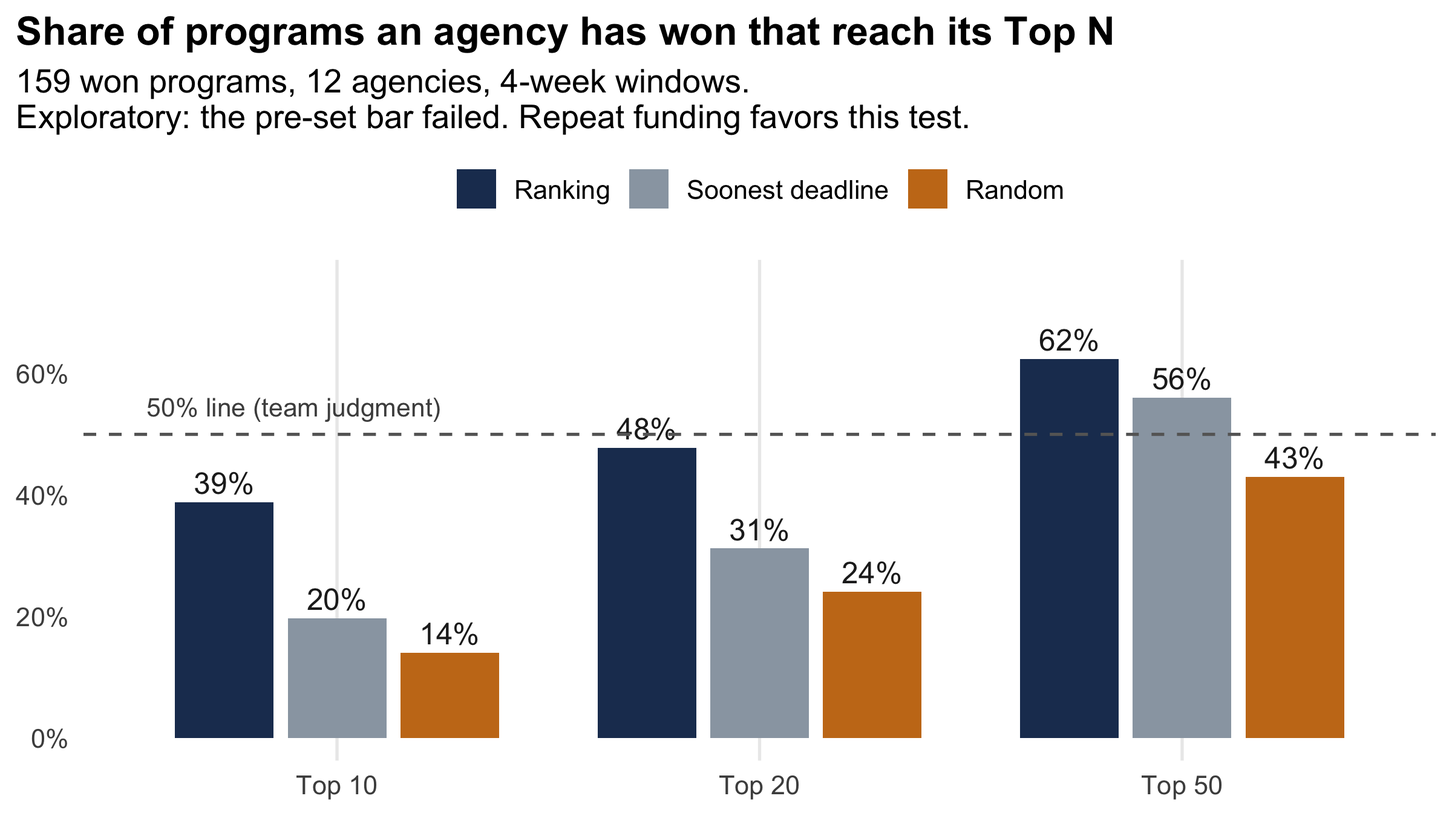
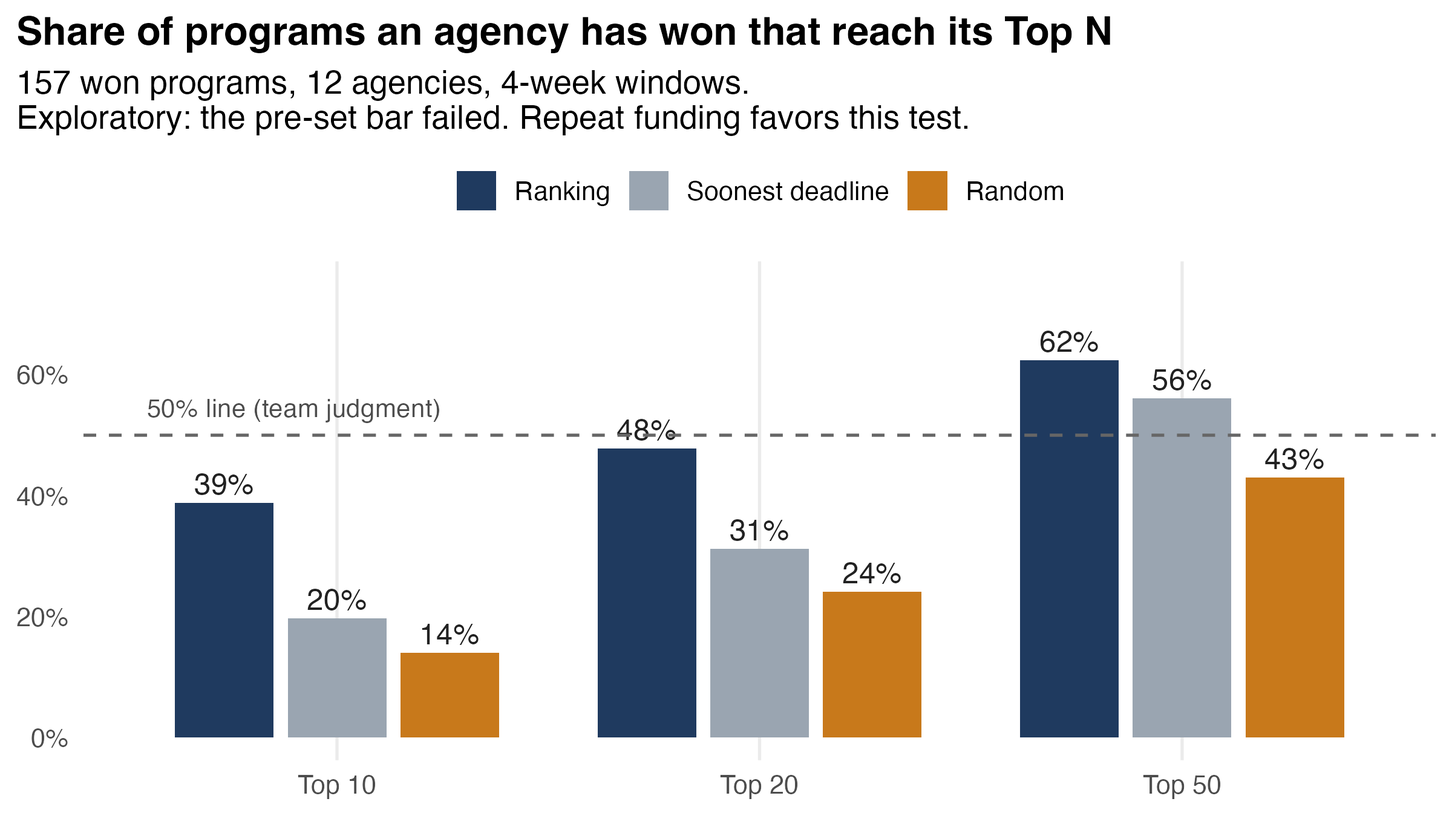
Untrack API key file, fix backtest figure count, add Level 4 rubric docs

diff --git a/Finalists/saturday/level4_solve_plan.md b/Finalists/saturday/level4_solve_plan.md
@@ -1,0 +1,40 @@
+# Level 4 Solve: gap list and run plan (Sun Nov 8, 2026)
+
+Source: the judging rubric photo. Level 3 = live demo end to end on Azure (ingest, score, rank, surface in a usable interface). Level 4 = Level 3 plus stretch goals, graceful handling of messy data, and a README a state developer could pick up.
+
+Status below is read from `src/docs/azure_setup.md`, `src/docs/daily_job.md`, `app/job.R`, `app/Dockerfile.job` and the README. Nothing here was checked against live Azure from this session [uncertain until someone with `az login` re-reads it].
+
+## Level 3 check (live demo end to end)
+| Step | State | Evidence |
+|---|---|---|
+| Surface in a usable interface | Done | `ffm-app` v36 live, `/`, `/payload.json`, `/feedback` |
+| Score and rank | Done, but baked into the image | scored on a laptop, payload copied into the image |
+| Ingest on Azure | NOT done | fetch (`02a` to `03_merge_opportunities.R`) runs by hand |
+| Daily job | Runs as dry run only | `ffm-daily-refresh` execution ffm-daily-refresh-7uhvu26 succeeded in 32 s but logged "no src/R under /srv/finalists; scoring skipped, shipping the baked payload" |
+
+Honest line for the pitch if nothing below is done: the daily job proves the schedule and the payload check, it does not yet refresh data. Say that, do not claim a cloud refresh.
+
+## Gaps, ordered by value for Level 4
+1. **Job image scores for real.** `Dockerfile.job` is written but never built. Running job is on the app image (v36), which has no `src/R`. Build `ffm-job` from the repo root, point the job at it, run once, confirm the log says "scoring from cache" and `payload.json` md5 matches the repo copy.
+2. **Job can write to Blob.** Marco's login cannot assign roles. Either an Owner grants `Storage Blob Data Contributor` on `ffmdatateam15` to the job identity, or a write SAS goes in as a Container App Job secret (`BLOB_WRITE_SAS`). Then set `JOB_DRY_RUN=0`. Until then the app serves the baked payload, which is fine for the demo.
+3. **Ingest is automated or honestly labeled.** Not feasible to wire a fetch with new keys in the time left. Fallback that is true today: the label "data as of 2026-11-07 11:00" in the payload, plus the README statement that fetch is a manual, approved step. If time allows later: store the keys as Container App Job secrets (never in an image or file) and run `02a` to `03` before scoring.
+4. **Stretch goals (rubric: "stretch goals").** Check which of the three bonus quests are live in the tool before the pitch: coverage/reach metric (fact sheet row 31 says done, exploratory), deadline alerts, feedback loop (`/feedback` live, pilot measure live). Say which are live and which are not. Do not name a bonus that is not in the deployed tool.
+5. **Messy data.** Already handled: 488 open items with no close date and 887 with no award ceiling show "not listed", not a made-up value (README line 156). Add one sentence and one screenshot to the pitch.
+6. **State-developer README.** Root README is a judge landing page with a requirement map. Missing for a developer: one block "to run this against a new state agency: edit these three tables in `data/manual/`" and the Azure resource list with names. Add it to `Finalists/README.md` after the key and history decisions are made.
+
+## What is needed to run all of it (order, owner)
+| # | Step | Owner | Needs |
+|---|---|---|---|
+| 1 | `az login` (Duo), confirm subscription | Marco | his phone |
+| 2 | Read current state: `az containerapp show`, `az containerapp job show`, month-to-date cost in the portal | Marco or Kent | read only |
+| 3 | Grant `AcrPull` on `ffmacrteam15` to the job identity, and `Storage Blob Data Contributor` on `ffmdatateam15` | a subscription Owner (Kent or organizers) | role assignment |
+| 4 | `az acr build -r ffmacrteam15 -t ffm-job:v1 -f Finalists/app/Dockerfile.job .` from repo root | Marco | per-command approval |
+| 5 | `az containerapp job update` to the new image, then `az containerapp job start` once; read the log | Marco | per-command approval |
+| 6 | Only if step 5 shows real scoring and md5 matches: set `JOB_DRY_RUN=0`, start once, confirm Blob timestamp changes and the live page still loads | Marco | per-command approval |
+| 7 | Warm the app (min replicas 1 already set; cold start is 38 s at 0) and set back to 0 after the talk | Marco | after 12:30 |
+| 8 | Log every Azure command and result in `src/docs/azure_setup.md` and `AI_USAGE_LOG.md` | whoever ran it | |
+
+Rule from the project: no `az` create, role assignment, build or deploy runs without the user's per-command approval. Steps 3 to 6 are outside what this session ran.
+
+## Decision for Kent
+Steps 4 to 6 are the only way to move Solve from "dry run" to "real scheduled refresh". Rough cost: a few minutes of build, well under $1. Risk: a bad image replaces the job only, never the live app. If the Owner role grant (step 3) cannot happen before 9:00, skip 2 and 6 and present the honest line above.

diff --git a/Finalists/docs/REQUIREMENTS.md b/Finalists/docs/REQUIREMENTS.md
@@ -1,0 +1,38 @@
+# Requirements: ranked, traced, with what we left out
+
+Rubric target: Frame, level 4 (reframed as we learned; requirements prioritized and traceable to sponsor input; scope held). Sources: `planning/07_discovery_findings.md` (our notes of the Fri Nov 6 discovery session, not verbatim quotes), `saturday/02_decisions.md`, `src/docs/fact_sheet.md`. Evidence status is read from those documents; re-check against the live tool before claiming it on a slide.
+
+## How the problem changed
+| Before the discovery session | What the sponsors said | What we built instead |
+|---|---|---|
+| Rank grants by how well they match an agency's plan | Time and "worth the effort" decide whether anyone applies; most agencies have no one whose job is scanning | Eligibility became its own step (hidden with a quoted reason, or "check eligibility"); rows show days left and who must sign; ranking is by plan fit with deadline and signature tier visible |
+| Teach the tool by having each user rank 10 sample grants | More questions to users is bad | Onboarding ranking dropped or shrunk [check what shipped in the live tool] |
+| Search Grants.gov | Grants.gov alone "is not comprehensive" | Added USAspending, Federal Register, SAM Assistance Listings and state strategic plans; SAM.gov postings are not loaded (README, Known limits) |
+| Prove it works with a model's labels | The first held-out check failed (kappa 0.44 in-sample) | Labels kept out of the ranking; the notice reader is advisory only (decisions 3 and 9) |
+
+## Requirements, in priority order
+Priority is our reading of what the sponsors stressed most: must = pilot fails without it; should = clearly asked for; could = stretch.
+
+| # | Priority | Requirement (sponsor input, paraphrased from notes) | Where it is met | Evidence |
+|---|---|---|---|---|
+| 1 | Must | Save time, never add work | One required choice (agency), then a ranked list; no setup questions | Live tool, README "What it does" |
+| 2 | Must | Fast and simple; waiting minutes fails | Static page served by `ffm-app`, payload prebuilt; warm 0.09 to 0.15 s, cold start 38 s at zero replicas, min replicas set to 1 | `src/docs/azure_setup.md` |
+| 3 | Must | Sort eligibility, not the person | Hard filter with exact quote, or "check eligibility" | Fact sheet rows 7 and 8 (16,288 pairs marked check eligibility; others hidden with a reason) |
+| 4 | Must | Rank by payoff versus effort, not fit alone | Award ceiling and signature tier (writer, supervisor, leadership) shown per row; 26 Top 10 rows need leadership | Fact sheet rows 24 and 25; 887 open items have no award ceiling and say "not listed" (row 6) |
+| 5 | Must | Deadline and time to act on every match | Days-to-deadline and status badges; 71 Top 10 rows close within 14 days across 24 agencies | Fact sheet rows 17 and 18; decision 12 |
+| 6 | Must | Use public data only; privacy | Opportunities, plans and county measures are public; the LLM only labels text with a quote and never ranks or hides | Decision 9; README constraints |
+| 7 | Should | Cross-agency by design, easy to hand over | 32 agencies in one payload; README "How to extend" for adding an agency or rule; 89 tests, 49 fact checks | Fact sheet rows 2 and 9; `docs/HANDOVER.md` |
+| 8 | Should | Know how many opportunities are missed (coverage) | Award-history backtest on 157 won programs: 61 reach the Top 10 (39%), 98 reach the Top 50 (62%) against 19.7% for soonest deadline and 14.1% for random | Fact sheet rows 26 to 29 |
+| 9 | Should | Go beyond Grants.gov | USAspending, Federal Register, SAM Assistance Listings used; SAM.gov postings and foundations not loaded | README Known limits |
+| 10 | Could | Draft the proposal | Out of scope, see below | Decision list |
+
+## Deliberately left out, and why
+- Proposal drafting: sponsors called it the top tier, but a checklist of requirements is all we can defend in a weekend, and a wrong draft is worse than none.
+- Private foundations and SAM.gov postings: no clean bulk source found in the time available (SAM Assistance Listings are used instead).
+- Accounts and server-side saving of user marks: no personal data to hold; marks stay in the browser and a de-identified copy goes to `/feedback` for the pilot measure.
+- Letting marks change the ranking: not done. We could not test that it improves the list, so it is a pilot question, not a claim.
+- Real cloud refresh: the daily job exists but runs as a dry run (see `README.md`, Daily refresh). We do not describe it as live.
+
+## Scope held under pressure
+- The 1:00 pm gate on Sat Nov 7 was the agency picker with a Top 10 and one backtest number; stretch items (match board, qualifier features) were ordered behind it in `saturday/02_decisions.md` (decisions 1, 11, 12).
+- The backtest bar (50% of won programs in the Top 10, 4-week windows, 2 of 3 agencies) was fixed before looking at results and the failed first run is reported (fact sheet row 15).

diff --git a/Finalists/docs/QA_DEFENSE.md b/Finalists/docs/QA_DEFENSE.md
@@ -1,0 +1,28 @@
+# Q&A defense: weaknesses and tradeoffs
+
+Rubric target: Evaluate, level 4 (evaluation built into the solution; tradeoffs defended with reasoning, not deflected). Every number comes from `src/docs/fact_sheet.md`. Say the weakness before the judge asks.
+
+## Evaluation inside the product
+- Each grant can be marked Pursue, Maybe or Skip. Each mark is sent, de-identified, to `/feedback` (agency, grant, rank, mark, random browser code). `app/pilot_scorecard.sh` turns the log into the pilot measure, shown as "Pilot measure" in My grants. Marks do not yet change the ranking.
+- A pilot would read that measure after the first weeks: the share of Top 10 rows that staff mark Pursue or Maybe.
+
+## Questions to expect, with the answer
+| Question | Answer | Source |
+|---|---|---|
+| Does the ranking work? | On 157 programs agencies had actually won, 61 (39%) reached the Top 10 and 98 (62%) reached the Top 50, in 4-week windows over 12 agencies. A plain soonest-deadline sort reached 19.7% and a random Top 10 reaches 14.1%. | Fact sheet rows 26 to 29 |
+| Did it pass your bar? | Not on the run we set beforehand. The bar was 50% of won programs in the Top 10, in at least 2 of 3 agencies; that run met it in 1 of 3 (DPI 2 of 3, DEQ 3 of 7, DHHS 4 of 11). After three ranking fixes made for other reasons (embassy filter, region list, tribal-title rule) it reads 2 of 3, but the denominators move with the ranking, so we say both and do not call it a pass. | Fact sheet row 15 |
+| Did a simple sort beat it? | In the first 3-agency test the soonest-deadline sort beat the model in all three. In the 12-agency test the ranking is ahead (39% against 19.7% at Top 10). We tell you both. | Fact sheet rows 16 and 29 |
+| Is the test biased in your favor? | Yes. Repeat funding favors any test built on past awards, and we tuned the text-fit setting after seeing results (current 60 of 157, best of 9 settings 64 of 157), so treat the gain as optimistic. | Fact sheet row 30 |
+| Is it useful early enough to act? | 41 of the 61 catches had at least 21 days left at the end of the window. That is the number that matters, not the raw catch rate. | Fact sheet row 32 |
+| Where does it fail? | Keyword matching misses grants worded differently from the plan and makes odd matches; region comes only from title and text, so another state's grant can slip through; the "NC has won this" track record undercounts (31 recipient matches confirmed); only DHHS and DMVA have a capability table; four plans are old. | README Known limits |
+| Did you test it with agency staff? | No. Testers were other undergraduates, consultants, government workers and other adults, none from an agency or OSBM. We say so. | `FIELD_NOTES.md` |
+| Why not let the AI decide eligibility or tier? | The model only labels text with a quoted passage and never hides or ranks. An early label check failed (kappa 0.44 in-sample), so labels stay out of the ranking. A person decides, and rules live in one file. | Decisions 3 and 9 |
+| What does missing data do? | Shows "not listed". 488 open items have no usable close date and 887 no usable award ceiling; we never fill in a value. | Fact sheet rows 5 and 6 |
+| Is the cloud refresh real? | Not yet. The daily job is deployed and runs as a dry run on a baked payload; fetching new postings is a manual step. We name that as the next step. | README Daily refresh |
+| What would you do with a pilot budget? | See `docs/PILOT_PLAN.md`. | |
+
+## Tradeoffs, stated as choices
+- Hide versus flag: items clearly ineligible are hidden with a quoted reason; uncertain ones are shown as "check eligibility" so we never silently drop a real opportunity (cost: a longer list).
+- Rules over a model for tiers and eligibility: explainable and reproducible, but they miss cases a model might catch.
+- Public data only: no privacy risk, but we cannot see which grants an agency is already pursuing.
+- Exploratory evaluation reported as such: weaker headline, higher trust.

diff --git a/Finalists/docs/PILOT_PLAN.md b/Finalists/docs/PILOT_PLAN.md
@@ -1,0 +1,41 @@
+# Pilot plan: what OSBM would be funding
+
+Rubric target: Drive Impact, level 4 (the room wants to fund it; roadmap and risks are realistic, not aspirational) and Understand, level 4 (people who fund, approve and maintain it). Owner and cost are left blank on purpose: we do not have them from a sponsor and will not invent them. Role fits below are inferred from job titles, not from anything these people said.
+
+## Who it touches
+| Role | Who it would be (by title, our proposal) | What they need from it |
+|---|---|---|
+| Uses it | A grants lead at an agency; at agencies with no grants role, whoever scans for funding | A short ranked list with deadline, who must sign, and why it matched; no setup |
+| Funds it | OSBM leadership, for example the OSBM Chief Scientist's office | A measured result from a small pilot before any larger commitment |
+| Approves it | Agency leadership for cost-share items (26 Top 10 rows need leadership); state IT and AI project staff for data and AI use | Public data only, an AI that labels text but never decides, and a record of how each result was reached |
+| Maintains it | A cross-agency team, as the sponsors described: no dedicated OSBM team exists | Plain tables to edit (`data/manual/`), one place for each rule, tests that fail loudly, a README they can follow |
+
+Titles only: the repo is public, so we do not name the state staff and mentors who spoke or attended without their consent.
+
+## The pilot
+- Length and scope: 60 days, 2 to 3 agencies, keep each agency's manual checking running in parallel so we can measure what the tool catches that they do not (the starter kit's shape).
+- Owner: left for OSBM to name. A pilot cannot start without one.
+- What it replaces: the periodic survey and the one person who scans Grants.gov when they have time. It does not replace a grant writer.
+- Cost: to be read from the Azure bill for month to date. The starter kit's $30 to $80 per month is unverified, so we do not quote it. Spend alerts exist at $50, $100, $250 and $400.
+
+## How we would know it worked
+- Pilot measure, already in the product: the share of Top 10 rows that staff mark Pursue or Maybe, from `/feedback` via `app/pilot_scorecard.sh`.
+- Coverage: how many opportunities the agency would otherwise have missed, counted against the manual list kept in parallel.
+- A "Yes" commits OSBM to: naming an owner, giving 2 to 3 agencies a grants contact for 60 days, and reading the measure at the end.
+
+## Roadmap
+| Step | State today |
+|---|---|
+| Rank and show Top 10 per agency, 32 agencies | Done, live on Azure |
+| Feedback marks logged for the pilot measure | Done, marks do not yet change the ranking |
+| Daily job that re-scores | Deployed as a dry run on a baked payload. Next: build the job image and give it permission to write |
+| Fetch new postings automatically | Not built. Fetch is a manual, approved step. Next: run it as a scheduled job with keys held as secrets |
+| Marks improve the ranking | Not built; test in the pilot |
+| More agencies need a capability table | Only DHHS and DMVA have one |
+
+## Risks, as they are
+- Keyword matching misses differently worded grants; the pilot's parallel manual list is how we find out how many.
+- Our evidence is a backtest on past awards, which favors repeat funding, and no agency staff have tested it.
+- Plans are old at four agencies; the tool is only as current as the plan text.
+- The model behind the notice reader (`gpt-4o-mini`) is scheduled for retirement on 2027-04-14 [per Azure's listing at deploy time]; swapping it is a config change but a pilot should plan for it.
+- Data refresh is manual until the job is finished.

diff --git a/Finalists/AI_USAGE_LOG.md b/Finalists/AI_USAGE_LOG.md
@@ -96,3 +96,5 @@ Notes for the disclosure:
 | 2026-11-07 | Kent's Claude (Claude Code session) | Claude Sonnet 5.5 (wrote code); Azure OpenAI gpt-4o-mini (summaries) | Tool UX round from user testing: tour starts and ends on the agency chooser, what-next card after the tour, wrong-agency jump fixes, Match an idea matching (stemming, synonym groups, relevance cutoff), ticket-stub results and grant detail, floating My grants pill, Pass renamed Skip in labels, Glossary rename, NC map highlight and county-list link, green-zone widened with a count, proposal block explained with icons. New src/R/31_swipe_summary.R: gpt-4o-mini (Azure deployment ffm-aoai-team15) writes a two-sentence plain summary per opportunity plus one exact quote from the notice; a summary is kept only if the quote is found in the text; responses cached in data/cache/llm_swipe/; about 558 calls, about $0.07. It never sets rank, eligibility or tier. |
 | 2026-11-07 | Marco | Claude Code (Claude Opus 5.5) | Judge-ready repo: wrote FIELD_NOTES.md from the field-notes draft, fact sheet and AI log; root README as a judge landing page with a requirement map; moved team-internal files to `_team/` and updated every reference; fixed the situation box crash (a second `SYN` table overwrote the synonym list, so Apply did nothing) and made Start over clear saved grants | Yes | Claude ran tests (86 of 86), check_facts (49 of 49), a link check and a browser check of Start over, Apply (DERA first for the demo sentence) and Match an idea. Marco to read FIELD_NOTES.md and fill the two TEAM TO CONFIRM lines |
 | 2026-11-08 | Marco | Claude Code (Claude Opus 5.5) | Tool: grantHub branding (logo, rename), Recent decisions fix, Email my list removed, agency reset option, Detailed switch on desktop; "Who it reaches" (keyword group tags with quotes in R, qualifier ACS population geography in the payload, card line, details panel, map layers) | Yes | Claude ran tests (89 of 89), check_facts (49 of 49) and browser checks; spot-read the matched words per group and added boilerplate to GROUP_IGNORE (senior/key personnel, veteran-owned, non-discrimination clause, mother-to-child, aging infrastructure). Tags are keyword rules, not hand-checked: a person should read a sample |
+| 2026-11-08 | Kent (Claude Code session) | Claude Sonnet 5.5 | Submission audit against the rubric: untracked `api_keys.env` and added `api_keys.env.example`; filled the two field-notes confirmations (tester groups, tools used); made the subtitle of `backtest_recall_v2` read its count from the data (was a stale 159, now 157); wrote `saturday/level4_solve_plan.md` (Level 4 Solve gaps and run order). No Azure command was run | Yes | Re-read the regenerated figure; counted 157 won programs and 61 caught at Top 10 from `backtest_v2_result.csv` against fact sheet rows 26 and 29; confirmed the key file is git-ignored. Level 4 status is read from docs, not from live Azure |
+| 2026-11-08 | Kent (Claude Code session) | Claude Sonnet 5.5 | Level 4 rubric work: wrote `docs/REQUIREMENTS.md` (ranked, traced requirements, reframing, left-out list), `docs/QA_DEFENSE.md`, `docs/PILOT_PLAN.md` (roles by title, kit-shape pilot, owner and cost left blank) and `docs/HANDOVER.md`; linked them from the README. Claude declined a request to describe the daily cloud refresh as working; the docs say it is a dry run | Yes | Numbers copied from `src/docs/fact_sheet.md` rows 5, 6, 15 to 18, 24 to 32 and checked against the file; requirement evidence is read from docs, not re-tested in the live tool; Kent to confirm the "onboarding ranking" status and the role mapping |

diff --git a/Finalists/docs/HANDOVER.md b/Finalists/docs/HANDOVER.md
@@ -1,0 +1,29 @@
+# Handover: for a state developer picking this up
+
+Rubric target: Solve, level 4 ("a README a state developer could pick up"). This page is the short path; `README.md` has the detail.
+
+## First hour
+1. Read `README.md` ("What it does", "Quick start", "How it works").
+2. From `src/`, run `Rscript R/check_facts.R`. It must print "49 of 49 rows pass". Run `Rscript tests/run_tests.R` from `src/` (89 of 89 pass at the last full run). Caches are committed, so no API key and no model is needed.
+3. Open the tool locally with the command in README "Quick start".
+
+## What you own after handover
+| Thing | Where | Change it by |
+|---|---|---|
+| Which agencies and what they care about | `data/manual/agency_map.csv`, `src/docs/agency_goal_summaries.csv` | README "How to extend", "Add an agency" |
+| Scoring and filter rules | `data/manual/criteria.csv`; thresholds in `src/R/00_config.R` | README "Change a rule"; rebuild, test, `check_facts.R` |
+| Tier rules (who must sign) | `src/tool/tiering.js` only | never copy them elsewhere |
+| New data source | `src/R/02*` pattern, then `03_merge_opportunities.R` | README "Add a data source"; missing stays missing, never 0 |
+| Every number shown | `data/manual/facts.csv`, `src/docs/fact_sheet.md` | a number not in the fact sheet does not ship |
+
+## Running it in the cloud
+- Resource names and every deploy so far: `src/docs/azure_setup.md`. Deploy steps: `app/deploy_azure.sh` (dry run by default; asks before each step).
+- The app needs no key. Only the data-collection scripts do: copy `api_keys.env.example` to `api_keys.env` and add your own keys. Never commit the file; hold keys in Azure as secrets.
+- The daily job (`app/job.R`) validates and stamps the payload. Real re-scoring needs the job image (`app/Dockerfile.job`) and write access to Blob; today it runs as a dry run. Fetching new postings is manual.
+
+## Known sharp edges
+- The cold start with zero replicas is about 38 seconds; keep one replica for anything people will use.
+- `PAYLOAD_AS_OF` in `src/R/00_config.R` is fixed so reruns are identical; a real daily run must set it from the run date.
+- Marks and the cart live in each browser; the `/feedback` log has no accounts.
+- Step 4 of the pipeline uses macOS OCR for image-only plan pages; another OS needs a different OCR tool.
+- The notice-reader model has a retirement date; check it before the pilot (see `docs/PILOT_PLAN.md`).

diff --git a/Finalists/FIELD_NOTES.md b/Finalists/FIELD_NOTES.md
@@ -79,7 +79,7 @@ How to read this. Every number comes from [src/docs/fact_sheet.md](src/docs/fact
 ### 1.6 What we tested with people, and what we did not
 
 - **Discovery session (Fri Nov 6):** agency and OSBM staff. This shaped every row of table 1.2.
-- **Tool testing (Sat Nov 7):** a round of fixes was logged as coming from user testing: tour flow, wrong-agency jumps, "Match an idea" matching, the map, mobile swipe ([AI_USAGE_LOG.md](AI_USAGE_LOG.md), last row). `[TEAM TO CONFIRM before submitting: who the testers were (role, not name) and whether any was agency staff.]`
+- **Tool testing (Sat Nov 7):** a round of fixes was logged as coming from user testing: tour flow, wrong-agency jumps, "Match an idea" matching, the map, mobile swipe ([AI_USAGE_LOG.md](AI_USAGE_LOG.md), last row). The testers were other undergraduates, people working in the field (consultants and government workers), and other adults. None was agency or OSBM staff, so none of this is evidence from the real users.
 - **Simulated reviewers:** 37 AI persona and judge transcripts in [testing/transcripts/](testing/transcripts/), covering grant writer, non-grants staffer, budget director, IT architect, hostile judge and others. They found real bugs, such as embassy notices and out-of-region grants in Top 10 lists. **They are not user evidence**, and we do not report their opinions as what users said.
 - **Not done:** no agency coordinator has used the tool on their own work over days. That is what the pilot is for.
 
@@ -99,7 +99,7 @@ Sources: [AI_USAGE_LOG.md](AI_USAGE_LOG.md), one row per session, with what a pe
 | Local Ollama `qwen2.5:14b` | Kent | Trial relevance labels for an evaluation pool. They failed validation and are **not** used in the tool |
 | Azure OpenAI `gpt-4o-mini` (resource `ffm-aoai-team15`) | Team | **In the product:** notice summaries with a checked quote (`src/R/31_swipe_summary.R`, about 558 calls, about $0.07 as logged) and an advisory "can a state agency apply as lead?" label (`src/R/30_notice_reader.R`). Neither sets rank, eligibility or tier |
 
-`[TEAM TO CONFIRM: no other tool (UNC PromptLab, ChatGPT) was used.]`
+No other generative AI tool was used: no UNC PromptLab, no ChatGPT. The only tools were Claude Code, OpenCode and Codex (as logged), local Ollama, and Azure OpenAI in the product.
 
 ### 2.2 Key prompts
 

diff --git a/Finalists/README.md b/Finalists/README.md
@@ -108,7 +108,7 @@ Rules to know:
 | [data/example/](data/example/) | Fake toy data, used only when real files are missing. |
 | [outs/](outs/) | Generated files. Safe to delete. |
 | [saturday/](saturday/) | Build-day decisions and the payload contract. |
-| [planning/](planning/), [docs/](docs/) | Discovery findings and framing worksheets; the organizer brief ([docs/QUEST_BRIEF.md](docs/QUEST_BRIEF.md)) and judging rubric. |
+| [planning/](planning/), [docs/](docs/) | Discovery findings and framing worksheets; the organizer brief ([docs/QUEST_BRIEF.md](docs/QUEST_BRIEF.md)) and judging rubric; [requirements](docs/REQUIREMENTS.md), [Q&A defense](docs/QA_DEFENSE.md), [pilot plan](docs/PILOT_PLAN.md) and [handover for a state developer](docs/HANDOVER.md). |
 | [FIELD_NOTES.md](FIELD_NOTES.md) | Solution Design and GenAI Field Notes (submission deliverable). |
 | [handoff.md](handoff.md), [AI_USAGE_LOG.md](AI_USAGE_LOG.md) | Team status notes and the log of AI use. |
 | `_team/` | Team-internal process files: task briefs, runbook, archived drafts, vault copies. Not needed to run or judge the work. |
@@ -159,7 +159,7 @@ Status (Sun Nov 8): the job runs on image v36 and a run started by hand at 05:02
 - Only 2 agencies (DHHS and DMVA) have a capability table.
 - The daily job exists in Azure but runs with `JOB_DRY_RUN=1`, so it writes nothing yet, and it re-scores cached data rather than fetching new postings. Do not describe the refresh as live.
 - No evaluation with real agency staff has been done.
-- API keys: `api_keys.env` is tracked in git, so those keys are in history. Rotate them and remove the file from history before the repo is shared outside the team.
+- API keys: `api_keys.env` is no longer tracked and is git-ignored (copy `api_keys.env.example`, add your own free Simpler.Grants.gov and SAM.gov keys). Only the data-collection scripts need keys. The ranking, tests and the Azure app need none.
 
 ## Where the numbers come from
 

diff --git a/Finalists/CLAUDE.md b/Finalists/CLAUDE.md
@@ -41,7 +41,7 @@ Decide at the design sprint whether the skeleton fits (`planning/03_problem_type
 
 ## Constraints
 - No participant, patient or personal data in any file.
-- API keys: the two team keys (Simpler.Grants.gov, SAM.gov) live in `api_keys.env`, committed on purpose because the repo is private (Kent, Nov 6). Never put any other key in a file, and never print keys in chat, slides or field notes.
+- API keys: the two team keys (Simpler.Grants.gov, SAM.gov) live in `api_keys.env`, which is git-ignored and untracked (repo goes public, Nov 8). Keep your local copy; `api_keys.env.example` shows the format. Never put any key in a tracked file, and never print keys in chat, slides or field notes.
 - Do not edit `.Renviron` or `.RData`.
 - Do not re-run outside-service scripts casually. They call out only for uncached items.
 - Log every AI use in `AI_USAGE_LOG.md` (tool, what for, what was checked by a human).
